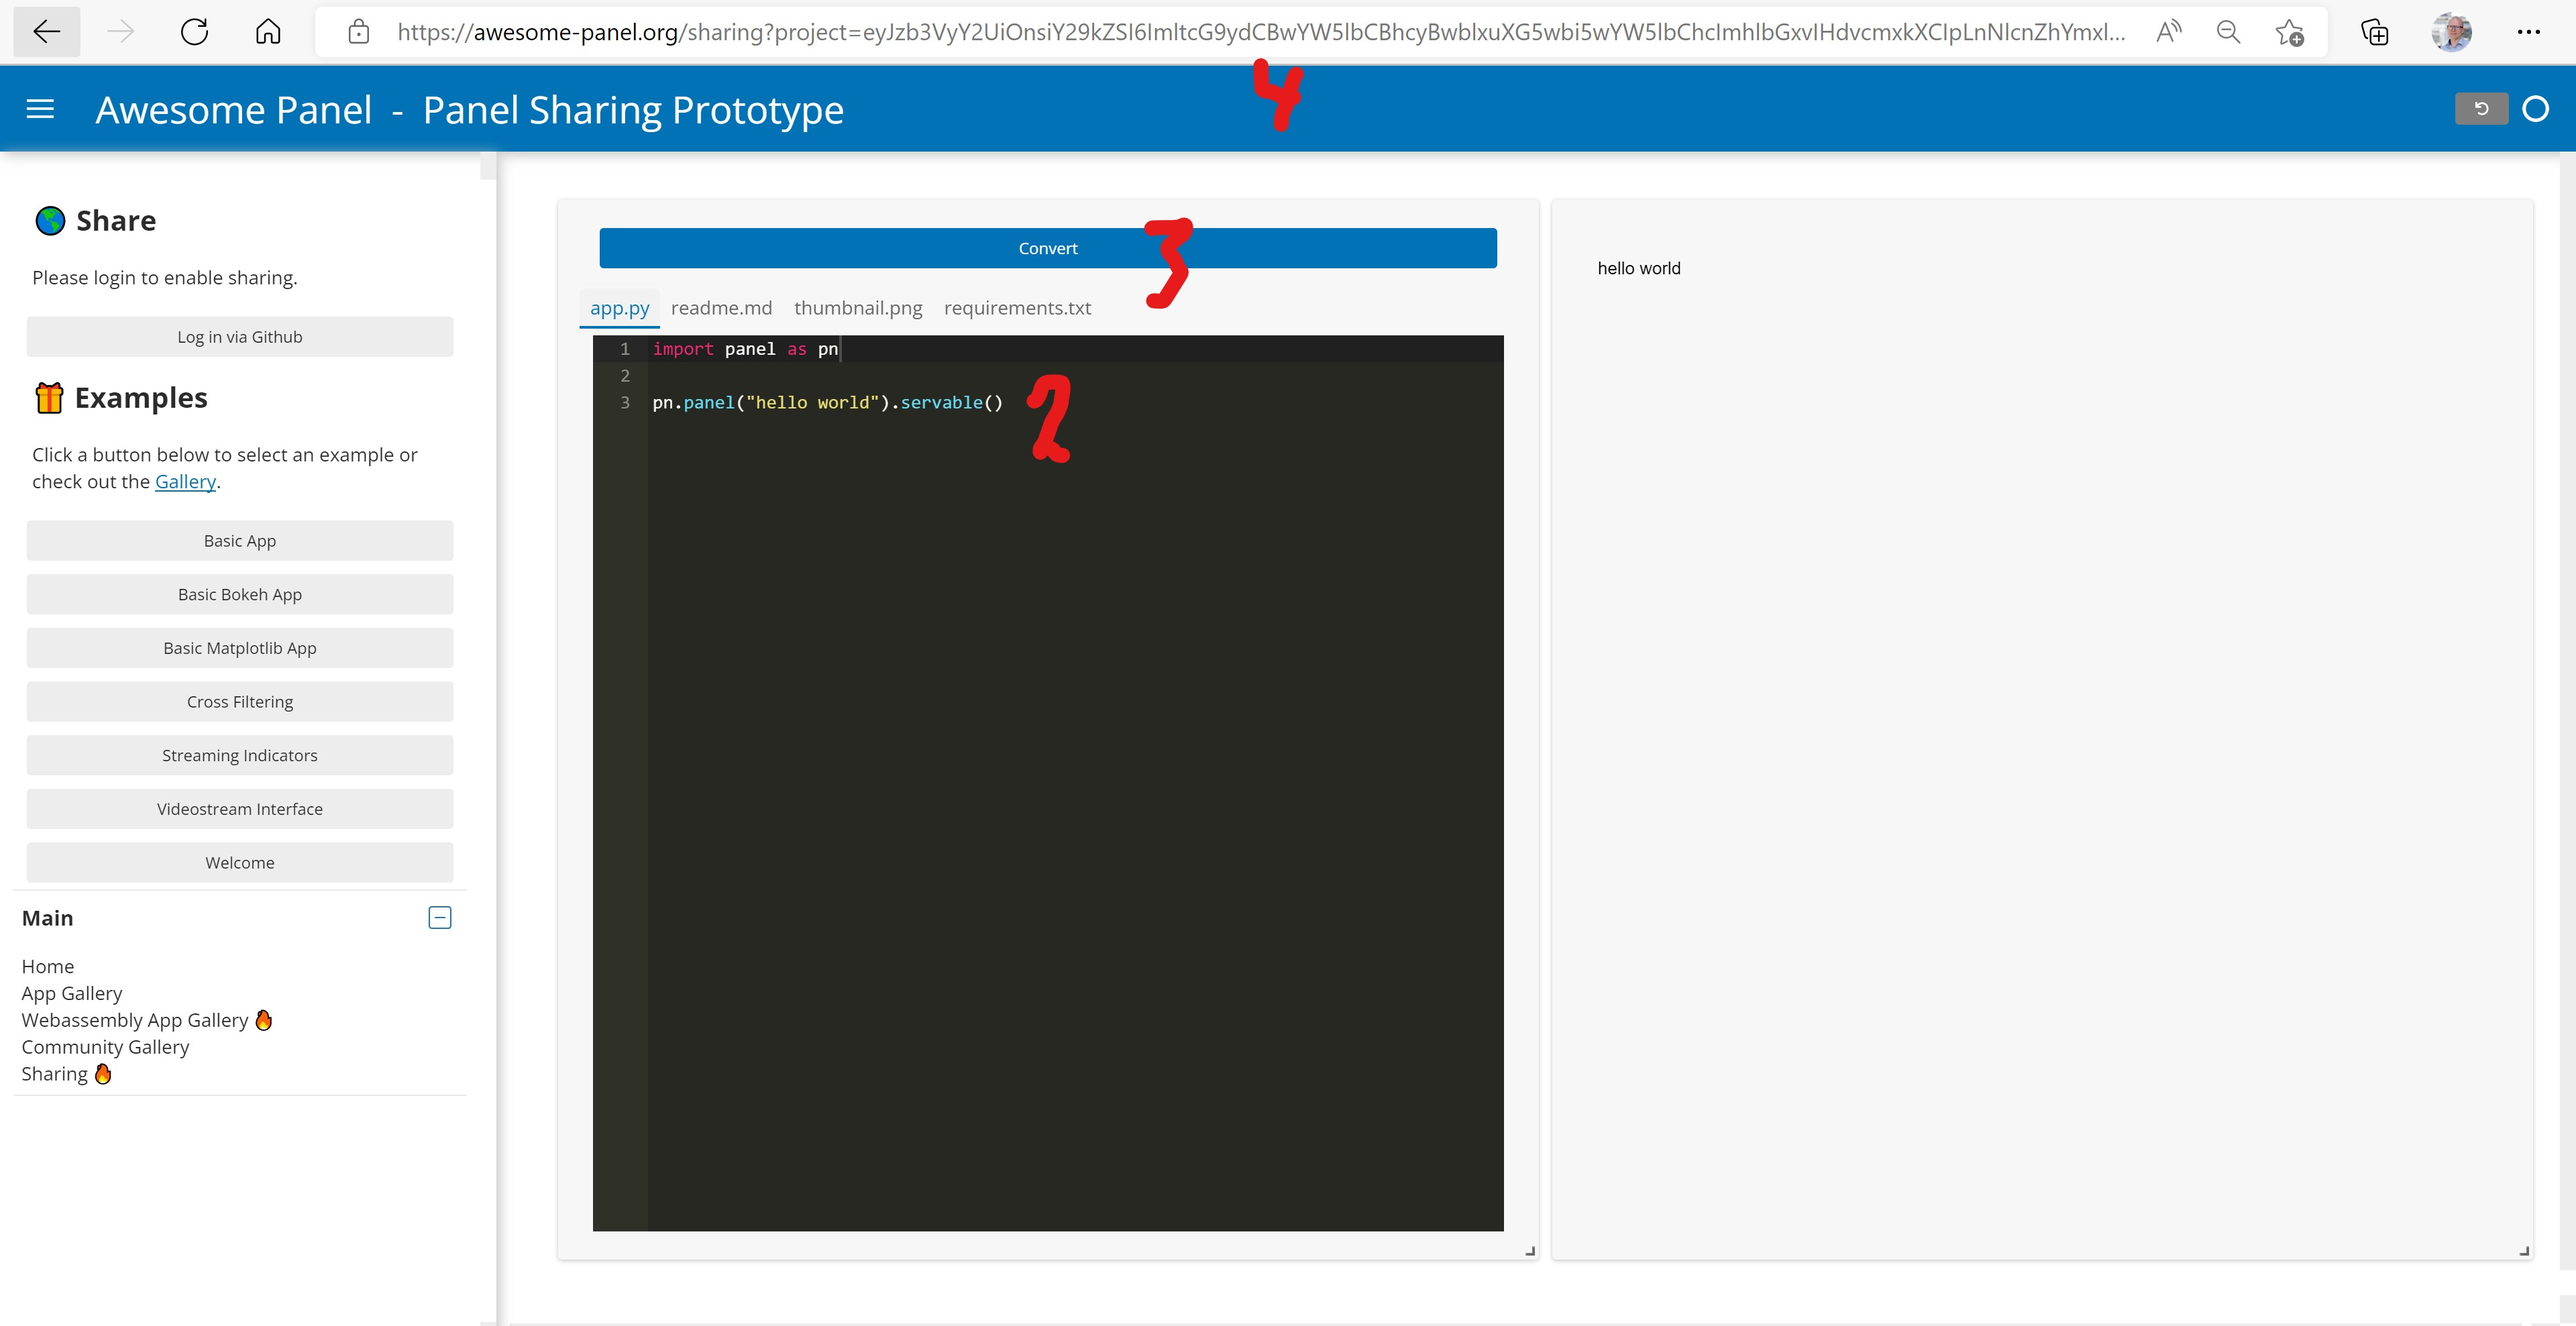
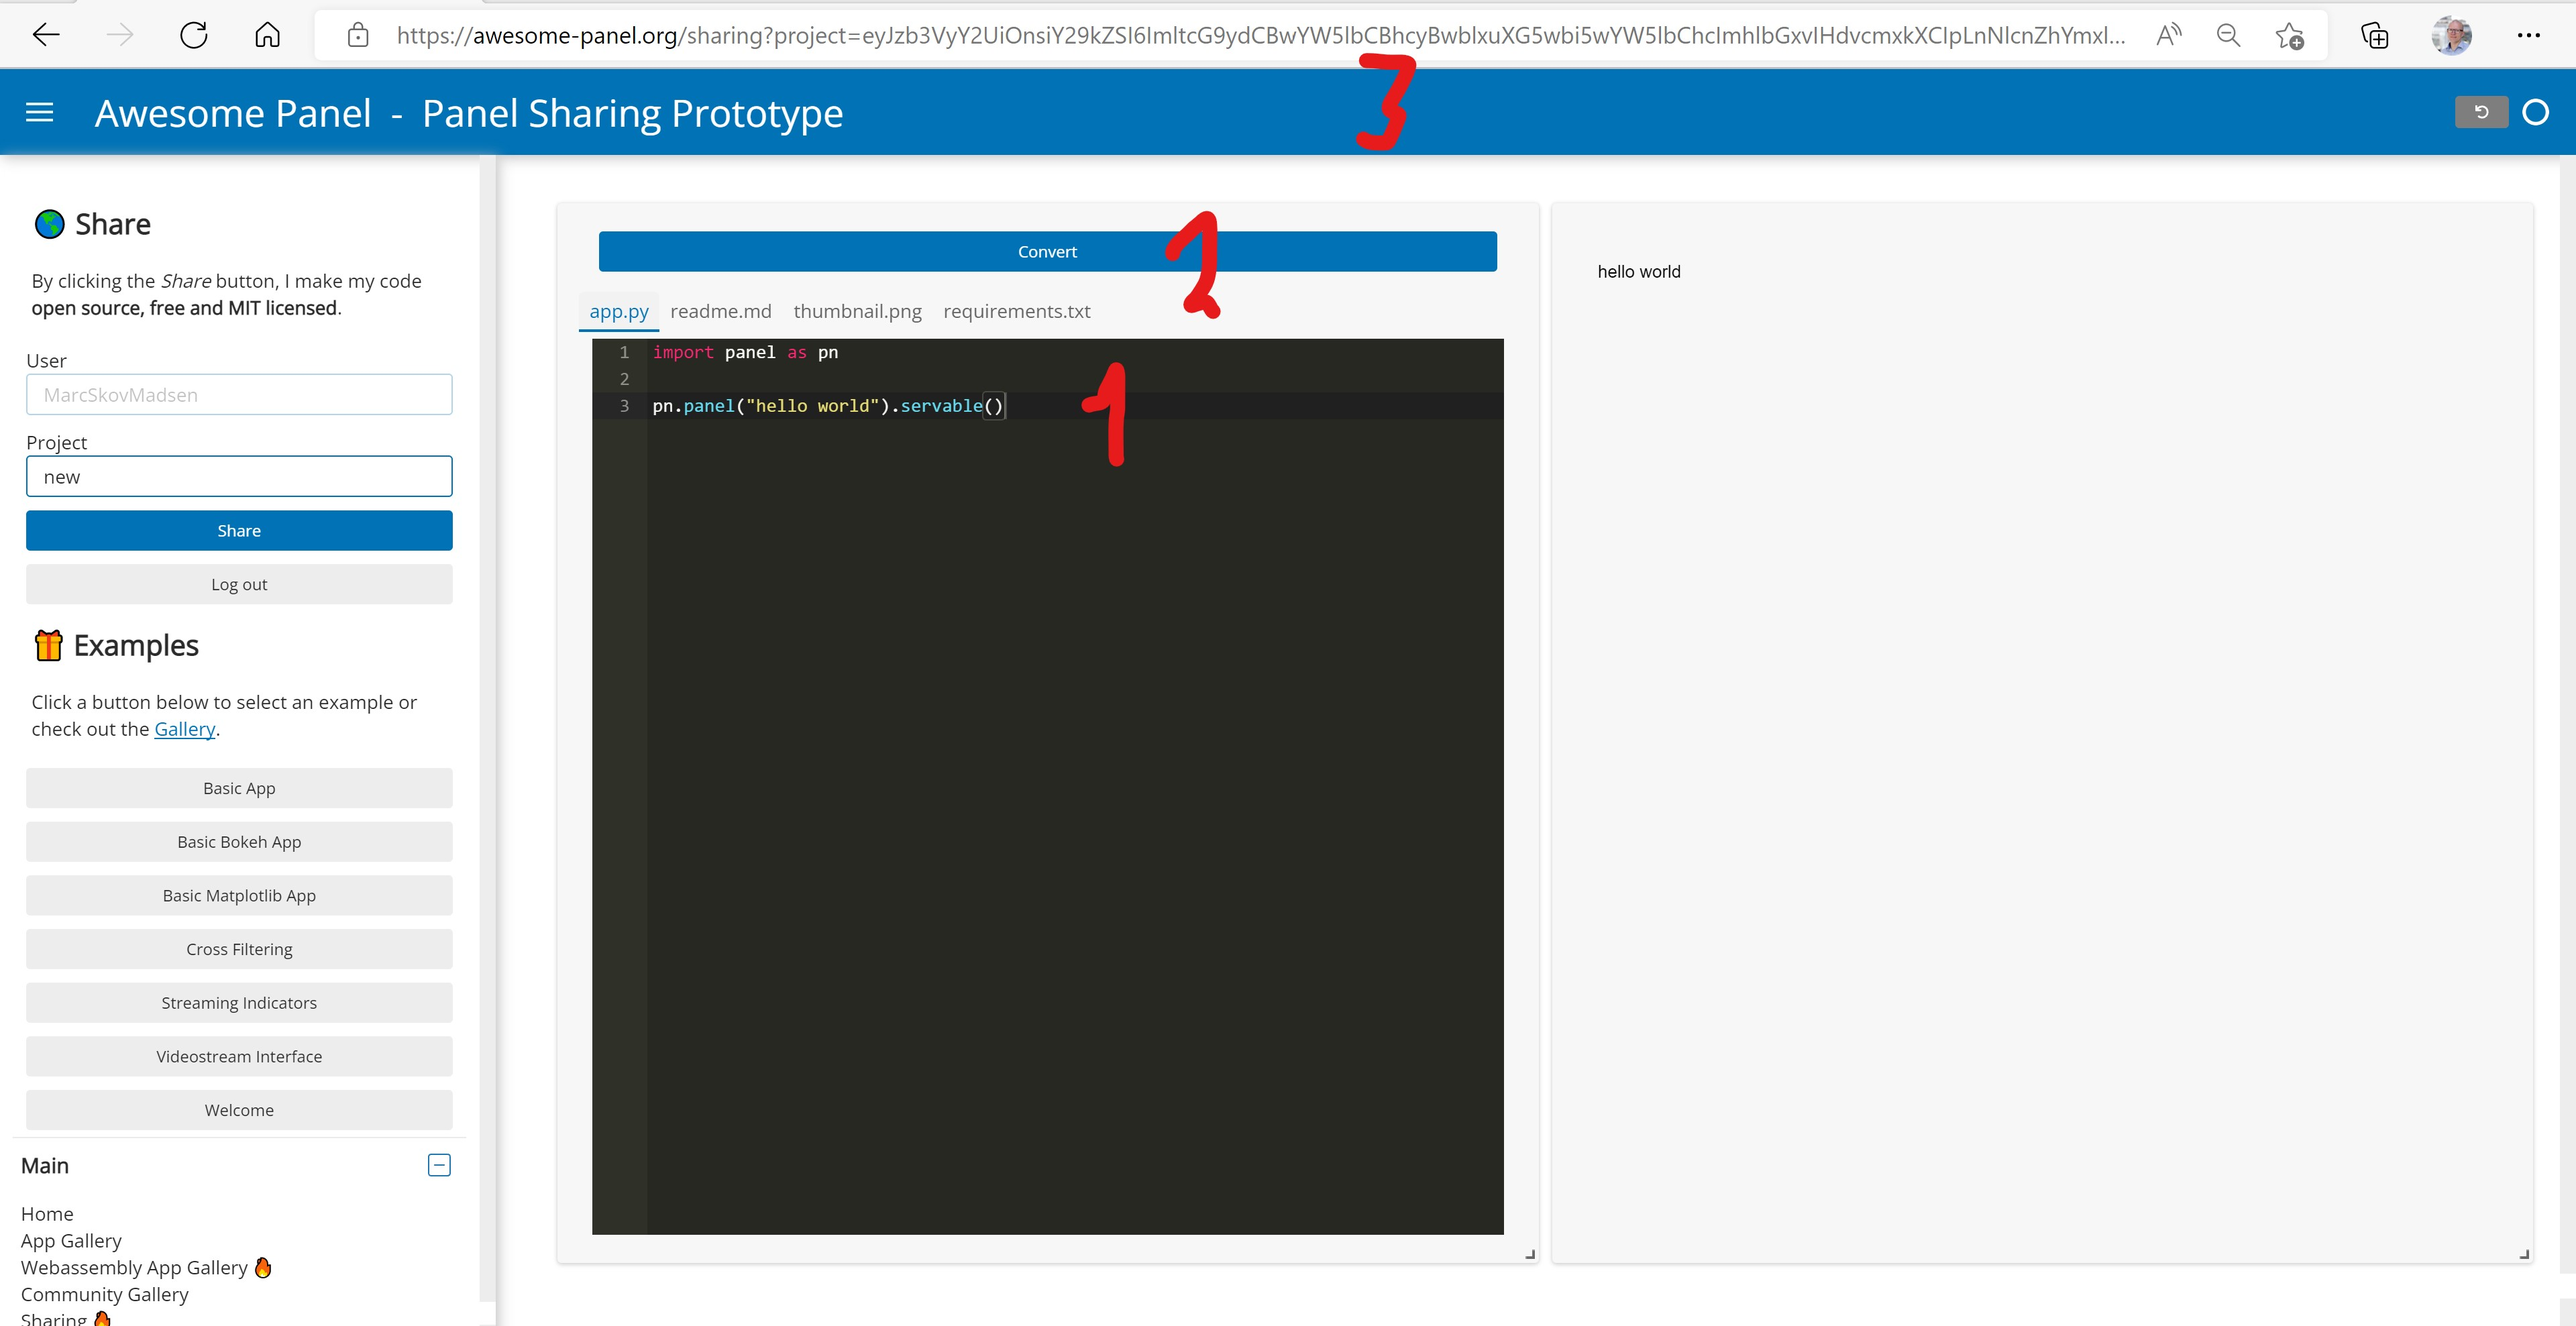
update docs

diff --git a/docs/user-guide.md b/docs/user-guide.md
@@ -7,10 +7,10 @@ https://shiny.rstudio.com/py/docs/shinylive.html
 [Panel Sharing](https://awesome-panel.org) makes it very easy to share [Panel](https://panel.holoviz.org) data apps with the world
 
 - Go to [Panel Sharing](https://awesome-panel.org)
-- Add your code
-- Convert the app
-- Login to Github
-- Share
+- Add your code and convert the app
+- Login and share your app
+
+Now you can find the app in the [Panel Sharing Gallery](https://awesome-panel.org/sharing_gallery).
 
 This is made possible by [`panel convert`](https://panel.holoviz.org/user_guide/Running_in_Webassembly.html) that converts Panel apps to [webassembly](https://webassembly.org/). The Webassembly runtime makes it possible to run your apps offline, on all devices and scale to many users for free.
 
@@ -22,10 +22,11 @@ Please be aware that the panel converted apps downloads a large amount of data a
 
 Use the description below if you want to share a small code sample and live app on [Stack Overflow](https://stackoverflow.com/) or [HoloViz Discourse](https://discourse.holoviz.org/).
 
-1. Open the [sharing gallery](https://awesome-panel.org/sharing_gallery).
-2. Add your code to the `app.py` file.
-3. Click the *Convert* button and verify that your app works
-4. Copy-Paste the long url to share it with the world
+Open the [sharing gallery](https://awesome-panel.org/sharing_gallery) and
+
+1. Add your code to the `app.py` file.
+2. Click the *Convert* button and verify that your app works
+3. Copy-Paste the long url to share it with the world
 
 ![Editor Link](assets/images/awesome-panel-sharing-editor-link.jpg)
 
@@ -45,8 +46,13 @@ Open the [sharing gallery](https://awesome-panel.org/sharing_gallery) and
 1. Add your code to the `app.py` editor tab.
 2. Click the *convert* button and verify that your app works
 3. Click the *login* button to log in via Github
-4. Click the *Share* button
-5. Click the *Copy* button to copy the link to your app or click the *Open* button to open your app in a new tab.
+4. Give your app a nice name
+5. Click the *Share* button
+6. Click the *Copy* button to copy the link to your app or click the *Open* button to open your app in a new tab.
+7. Optionally copy the url in the browser if you want a direct link to your app in the editor.
+
+![App Editor Part 1](assets/images/awesome-panel-sharing-editor-sharing1.jpg)
+![App Editor Part 2](assets/images/awesome-panel-sharing-editor-sharing2.jpg)
 
 Optionally you can add your requirements to the `requirements.txt` editor tab. Most often this is not needed though as `panel convert` inspects your code and adds the requirements automatically.
 
@@ -56,9 +62,10 @@ Editor Example URL: [https://awesome-panel.org/sharing?app=MarcSkovMadsen/videos
 
 ### Update and re-share your app
 
-- Open the [sharing gallery](https://awesome-panel.org/sharing_gallery).
-- Search and find your app
-- Click the code icon
+Open the [sharing gallery](https://awesome-panel.org/sharing_gallery) and
+
+1. Search and find your app
+2. Click the code icon
 
 ![Search App and Open Editor with Code](assets/images/awesome-panel-sharing-update-app.jpg)
 
